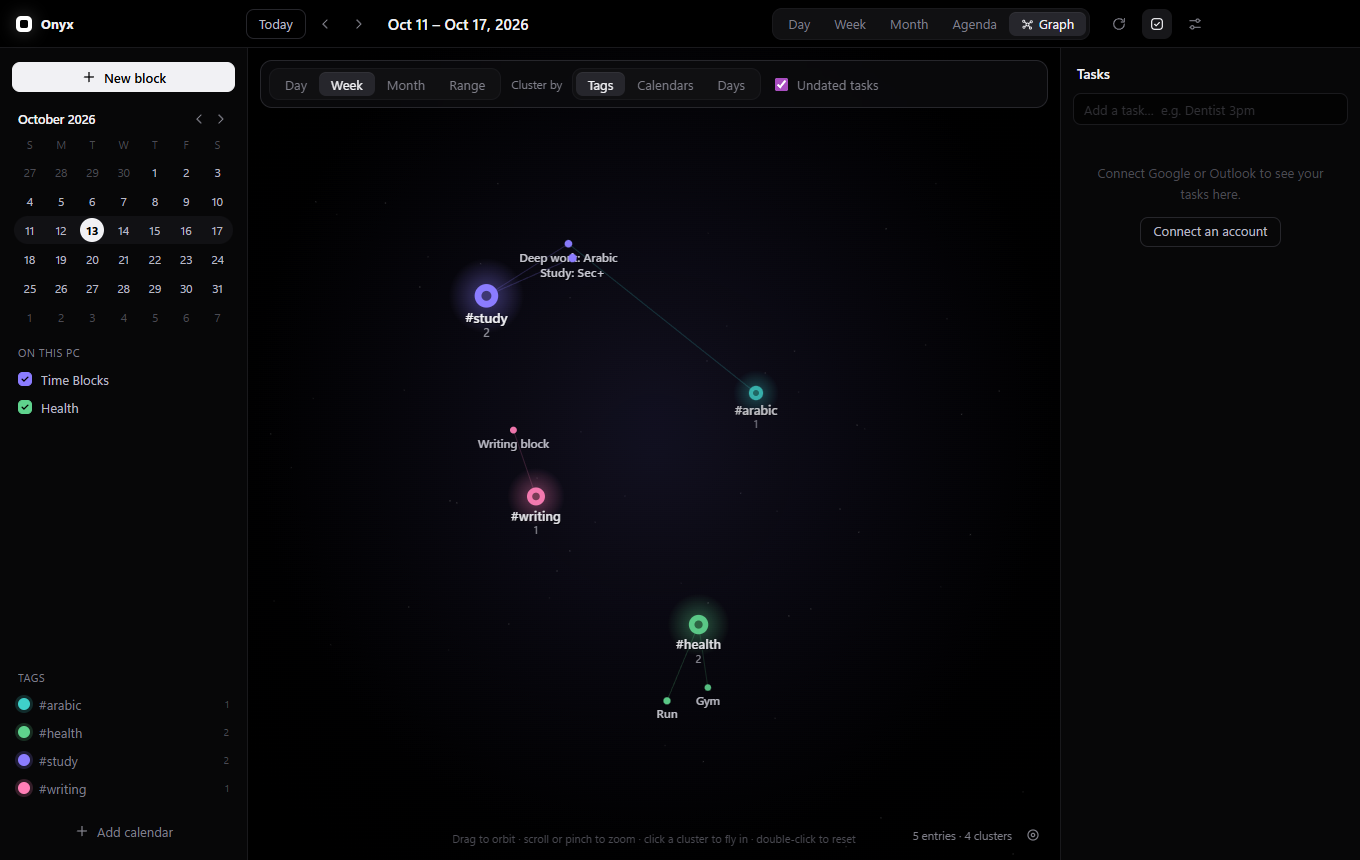
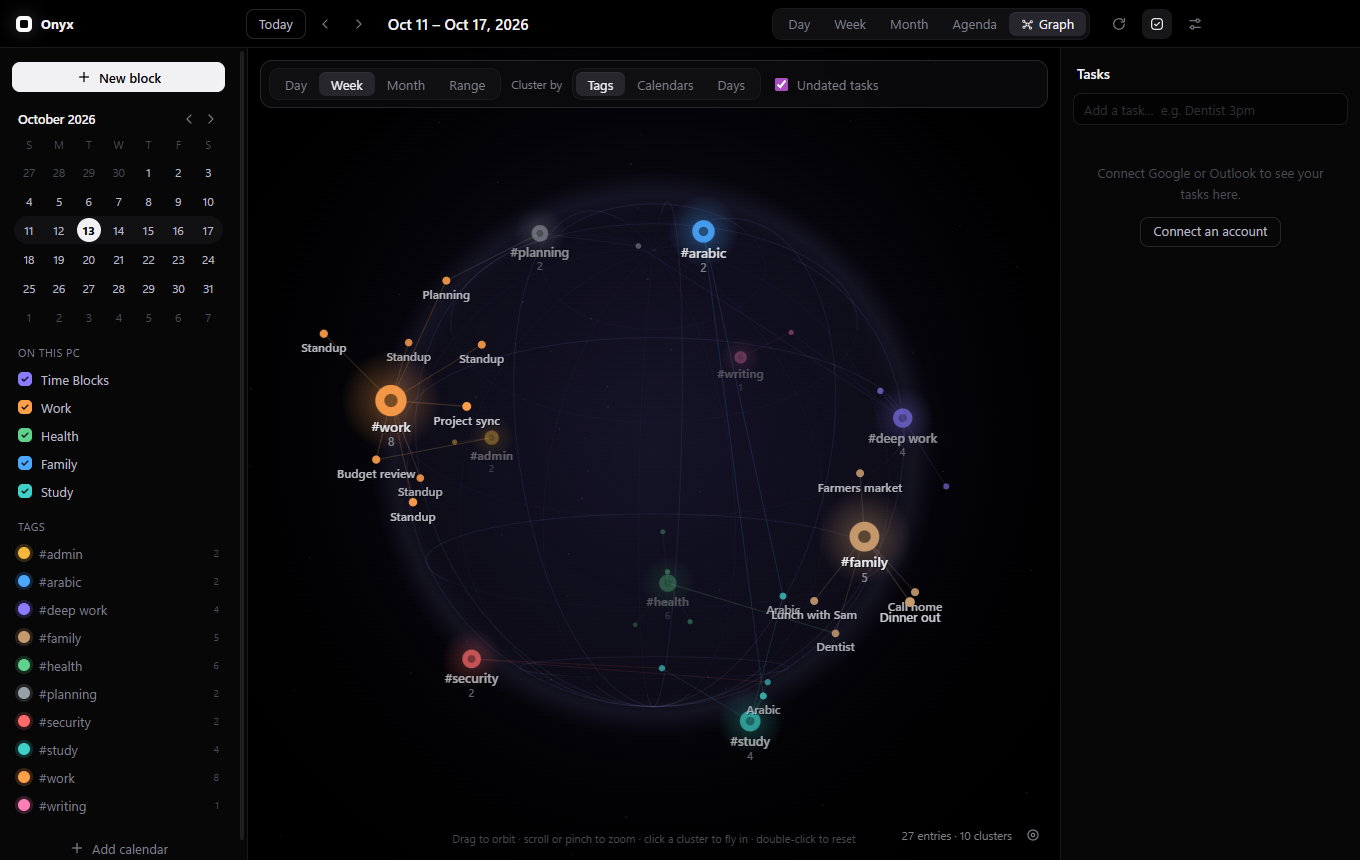
README: scanning in the app, the globe graph; new graph screenshot

diff --git a/README.md b/README.md
@@ -80,9 +80,9 @@ Any calendar that can be published as an `.ics` link works without a sign-in. In
 
 ### Graph view
 
-Press **Graph** (or `G`). Every entry in the range orbits around a cluster:
+Press **Graph** (or `G`). Your entries form a globe: each cluster sits on the surface of a sphere with its entries gathered around it, and the near side is brighter than the far side. Drag (or swipe) to spin it; a flick keeps it turning.
 
-- **Cluster by Tags** groups entries by tag. An entry with two tags is pulled between both clusters; untagged entries gather under "Untagged".
+- **Cluster by Tags** groups entries by tag. An entry with two tags is pulled between both clusters, through the inside of the globe; untagged entries gather under "Untagged".
 - **Cluster by Calendars** groups by the calendar each entry comes from.
 - **Cluster by Days** strings the days together like a timeline.
 
@@ -110,9 +110,9 @@ The Android app is a companion to the PC app: it shows the same master calendar,
 
 1. Download `Onyx-Calendar-x.y.z.apk` from the [Releases](../../releases) page on the phone and open it. Android asks you to allow installing apps from your browser the first time.
 2. On the PC, open **Settings → Phone**. A QR code appears.
-3. Point the phone's camera at the code and tap the link. Onyx opens and connects.
+3. Open Onyx on the phone, tap **Scan QR code**, and point the phone at the code. It connects by itself.
 
-If the camera link doesn't work, type one of the addresses and the token shown under the QR code into the app instead.
+Scan from inside the Onyx app: the phone's camera app hands `onyx://` links to Google instead of opening Onyx. To connect without scanning, type one of the addresses and the token shown under the QR code. To re-pair later, use **Settings → Connection → Scan a new code**.
 
 - **Same wifi:** works out of the box. The PC app must be running (it can sit in the tray).
 - **Away from home:** install [Tailscale](https://tailscale.com/) on the PC and the phone, then scan the code again. Its `100.x.y.z` address is included automatically.
